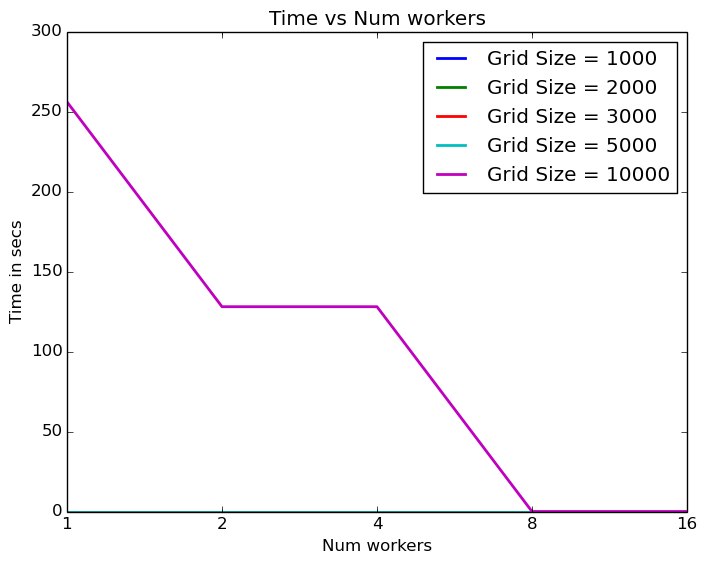
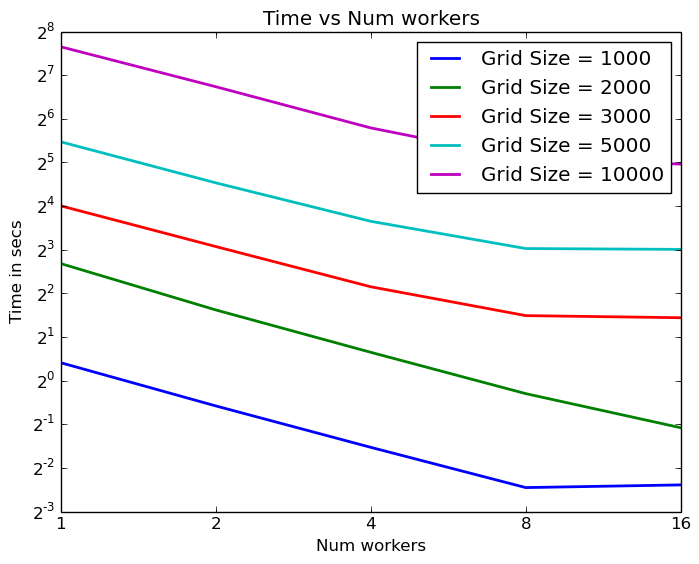
Plots for lab3 generated

diff --git a/Lab3/eval_lab3.py b/Lab3/eval_lab3.py
@@ -9,7 +9,7 @@ from subprocess import check_output
 num_jobs = range(0, 5)  
 num_jobs = [2**i for i in num_jobs]
 
-grid_size = [1000, 2000, 3000 , 5000, 10000]  
+grid_size = [1000, 2000, 3000, 5000, 10000]  
 
 time_all = np.zeros((len(num_jobs), len(grid_size)))
 
@@ -21,9 +21,9 @@ for n_id, n in enumerate(num_jobs, 0):
 
 		# Find the time
 		tmp = program_out.split("Time: ")[1]
-		run_time = tmp.split("Number of Iterations:")[0]
-		run_time = float(run_time)
-		print("Runtime is:  " + str(run_time))
+		run_time = tmp.split(" ::")[0]
+		run_time = float(run_time.replace("\x00", ""))
+		print("Runtime is:  " + str(run_time) + "  n jobs:  " + str(n) + "n grid:  " + str(g))
 
 		time_all[n_id, g_id] = run_time
 
@@ -35,6 +35,7 @@ for g_id, g in enumerate(grid_size, 0):
 plt.ylabel('Time in secs')
 plt.xlabel('Num workers')
 plt.xscale('log', basex=2)
+plt.yscale('log', basey=2)
 
 xi = [2**n for n in range(0, len(num_jobs))]
 plt.xticks(num_jobs, xi)
